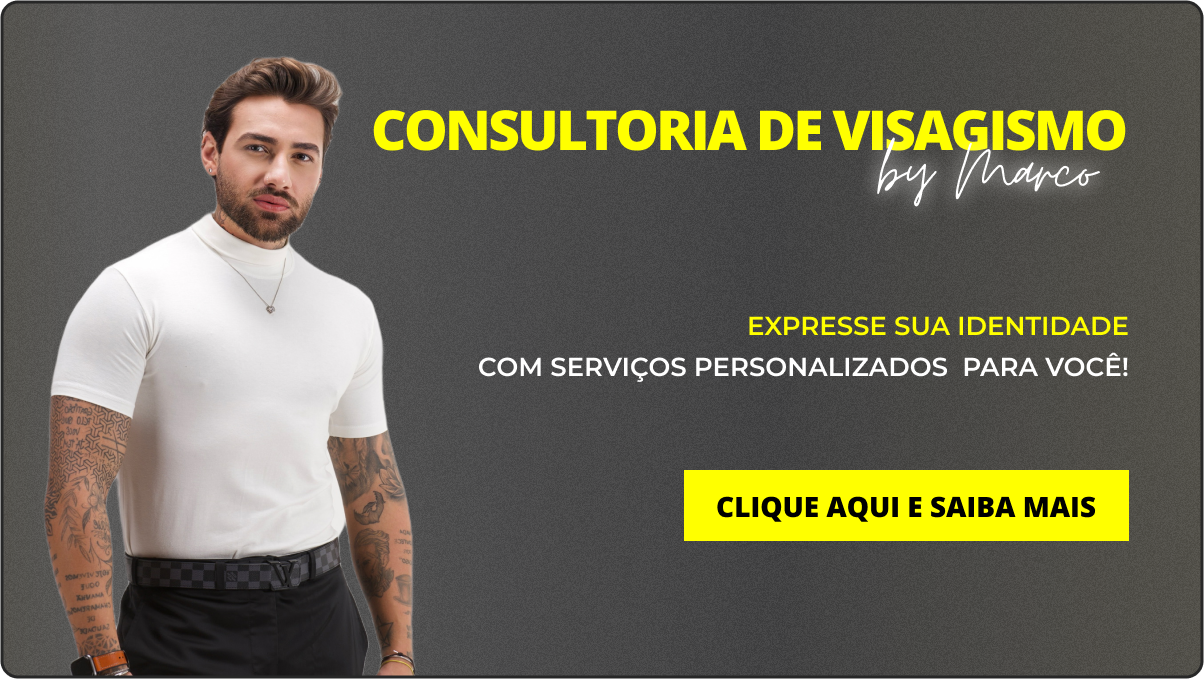
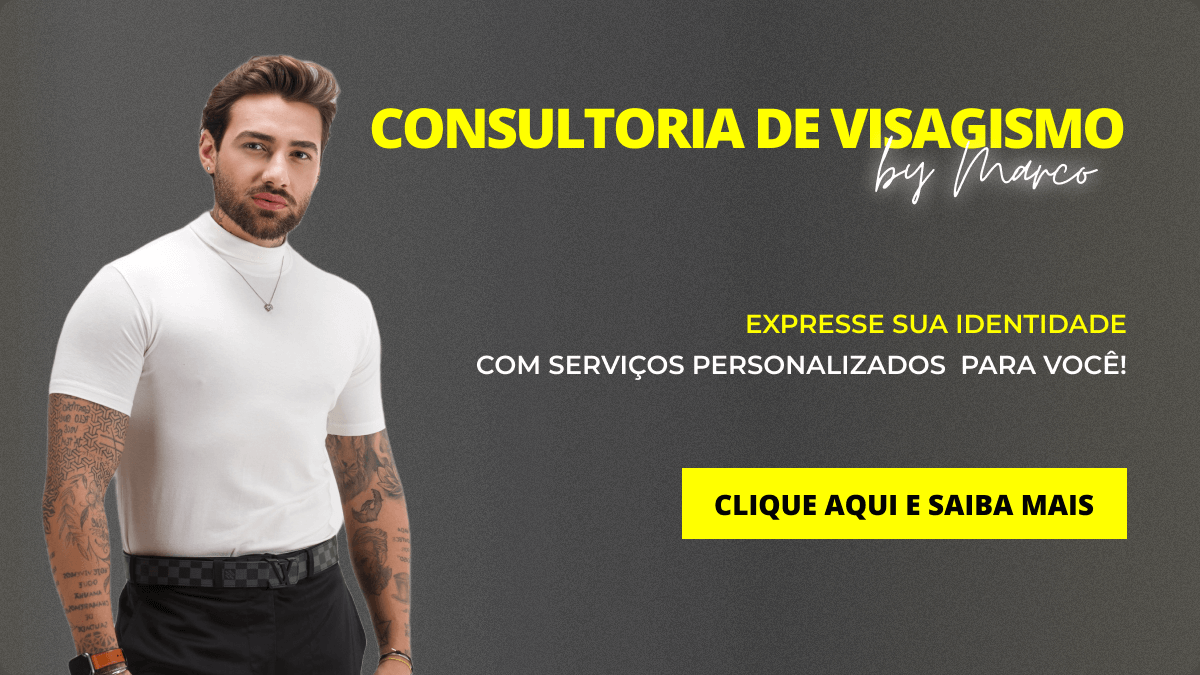
Ajustando o tamanho das imagens

diff --git a/index.html b/index.html
@@ -3,38 +3,16 @@
   <head>
     <meta charset="UTF-8" />
     <meta name="viewport" content="width=device-width, initial-scale=1.0" />
-    <link rel="shortcut icon" href="./assets/favicon.ico" type="image/x-icon">
-    <link
-      href="https://cdn.jsdelivr.net/npm/bootstrap@5.3.1/dist/css/bootstrap.min.css"
-      rel="stylesheet"
-      integrity="sha384-4bw+/aepP/YC94hEpVNVgiZdgIC5+VKNBQNGCHeKRQN+PtmoHDEXuppvnDJzQIu9"
-      crossorigin="anonymous"
-    />
+    <link rel="shortcut icon" href="./assets/favicon.ico" type="image/x-icon" />
+    <link rel="stylesheet" href="style.css" />
+
+    <link href="https://cdn.jsdelivr.net/npm/bootstrap@5.3.1/dist/css/bootstrap.min.css" rel="stylesheet" integrity="sha384-4bw+/aepP/YC94hEpVNVgiZdgIC5+VKNBQNGCHeKRQN+PtmoHDEXuppvnDJzQIu9" crossorigin="anonymous">
+
+    <meta name="description" content="" />
 
     <title>Links - Marco Visagista</title>
-    <style>
-      a img:hover {
-        transform: scale(1.009);
-      }
-      .yellow:hover {
-        border-radius: 16px;
-        box-shadow: 0px 0px 20px 10px rgba(251, 255, 0, 0.1);
-      }
-      .purple:hover {
-        border-radius: 16px;
-        box-shadow: 0px 0px 20px 10px rgba(168, 97, 235, 0.1);
-      }
-      .green:hover {
-        border-radius: 16px;
-        box-shadow: 0px 0px 20px 10px rgba(165, 253, 109, 0.1);
-      }
-
-      footer a {
-        color: #ffff00;
-      }
-    </style>
   </head>
-  <body class="" style="background-color: #000">
+  <body class="bg-black">
     <header class="container-fluid p-4">
       <nav class="navbar">
         <div class="container-fluid d-flex justify-content-center">
@@ -43,6 +21,7 @@
               src="./assets/marco-viagismo-logo.svg"
               alt="Marco Visagismo"
               width="200px"
+              height="auto"
             />
           </span>
         </div>
@@ -51,12 +30,16 @@
     <main
       class="container-fluid mb-4 d-flex flex-column justify-content-center align-items-center gap-4"
     >
-    <section class="container">
-        <a href="https://api.whatsapp.com/send?phone=5534993370707&text=Ol%C3%A1,%20gostaria%20de%20ser%20atendido%20pelo%20Marco!">
+      <section class="container">
+        <a
+          href="https://api.whatsapp.com/send?phone=5534993370707&text=Ol%C3%A1,%20gostaria%20de%20ser%20atendido%20pelo%20Marco!"
+        >
           <img
             class="img-fluid yellow"
-            src="./assets/consultoria-visagismo.png"
+            src="./assets/consultoria-visagismo (1).png"
             alt="Consultoria de visagismo"
+            width="100%"
+            height="auto"
           />
         </a>
       </section>
@@ -67,40 +50,50 @@
         >
           <img
             class="img-fluid yellow"
-            src="./assets/visagismo-na-pratica.png"
+            src="./assets/visagismo-na-pratica (1).png"
             alt="Curso Visagismo na prática"
+            width="100%"
+            height="auto"
           />
         </a>
       </section>
-      
+
       <section class="container">
         <a
           href="https://api.whatsapp.com/send?phone=5534997697044&text=Quero%20aprender%20mais%20sobre%20como%20aplicar%20o%20visagismo!"
         >
           <img
             class="img-fluid purple"
-            src="./assets/mentoria-visagismo.png"
+            src="./assets/mentoria-visagismo (1).png"
             alt="Mentoria de Visagismo"
-          />
-        </a>
-      </section>
-      
-      <section class="container">
-        <a href="https://api.whatsapp.com/send?phone=5534997697044&text=Quero%20aprender%20a%20gerenciar%20o%20meu%20neg%C3%B3cio%20e%20aumentar%20meu%20faturamento!">
-          <img
-            class="img-fluid green"
-            src="./assets/mentoria-negocio-de-fato.png"
-            alt="Mentoria Negócio de fato"
+            width="100%"
+            height="auto"
           />
         </a>
       </section>
 
+      <section class="container">
+        <a
+          href="https://api.whatsapp.com/send?phone=5534997697044&text=Quero%20aprender%20a%20gerenciar%20o%20meu%20neg%C3%B3cio%20e%20aumentar%20meu%20faturamento!"
+        >
+          <img
+            class="img-fluid green"
+            src="./assets/mentoria-negocio-de-fato (1).png"
+            alt="Mentoria Negócio de fato"
+            width="100%"
+            height="auto"
+          />
+        </a>
+      </section>
     </main>
     <footer class="container-fluid border-top border-dark mt-5 py-5">
-        <p class="text-center text-white text-wrap fw-light">Todos os direitos reservados - CNPJ: 00.000.000/0001-00</p>
-        <p class="text-center text-white fw-light">Consulte nossa
-            <a href="#">Política de Privacidade</a>
-        </p>
+      <p class="text-center text-white text-wrap fw-light">
+        Todos os direitos reservados - CNPJ: 00.000.000/0001-00
+      </p>
+      <p class="text-center text-white fw-light">
+        Consulte nossa
+        <a href="#">Política de Privacidade</a>
+      </p>
     </footer>
   </body>
 </html>

diff --git a/style.css b/style.css
@@ -1,0 +1,47 @@
+/* width */
+::-webkit-scrollbar {
+  width: 8px;
+}
+
+/* Track */
+::-webkit-scrollbar-track {
+  background: #272727;
+}
+
+/* Handle */
+::-webkit-scrollbar-thumb {
+  background: #ffff00;
+  border-radius: 12px;
+}
+
+/* Handle on hover */
+::-webkit-scrollbar-thumb:hover {
+  background: rgb(250, 225, 0);
+}
+
+a img {
+  border-radius: 16px;
+  border: 2px solid gray;
+  margin: auto;
+  transition: all 0.2s ease-in-out;
+}
+
+a img:hover {
+  transform: scale(1.009);
+}
+.yellow:hover {
+  border-radius: 16px;
+  box-shadow: 0px 0px 20px 10px rgba(251, 255, 0, 0.2);
+}
+.purple:hover {
+  border-radius: 16px;
+  box-shadow: 0px 0px 20px 10px rgba(168, 97, 235, 0.2);
+}
+.green:hover {
+  border-radius: 16px;
+  box-shadow: 0px 0px 20px 10px rgba(165, 253, 109, 0.2);
+}
+
+footer a {
+  color: #ffff00;
+}
